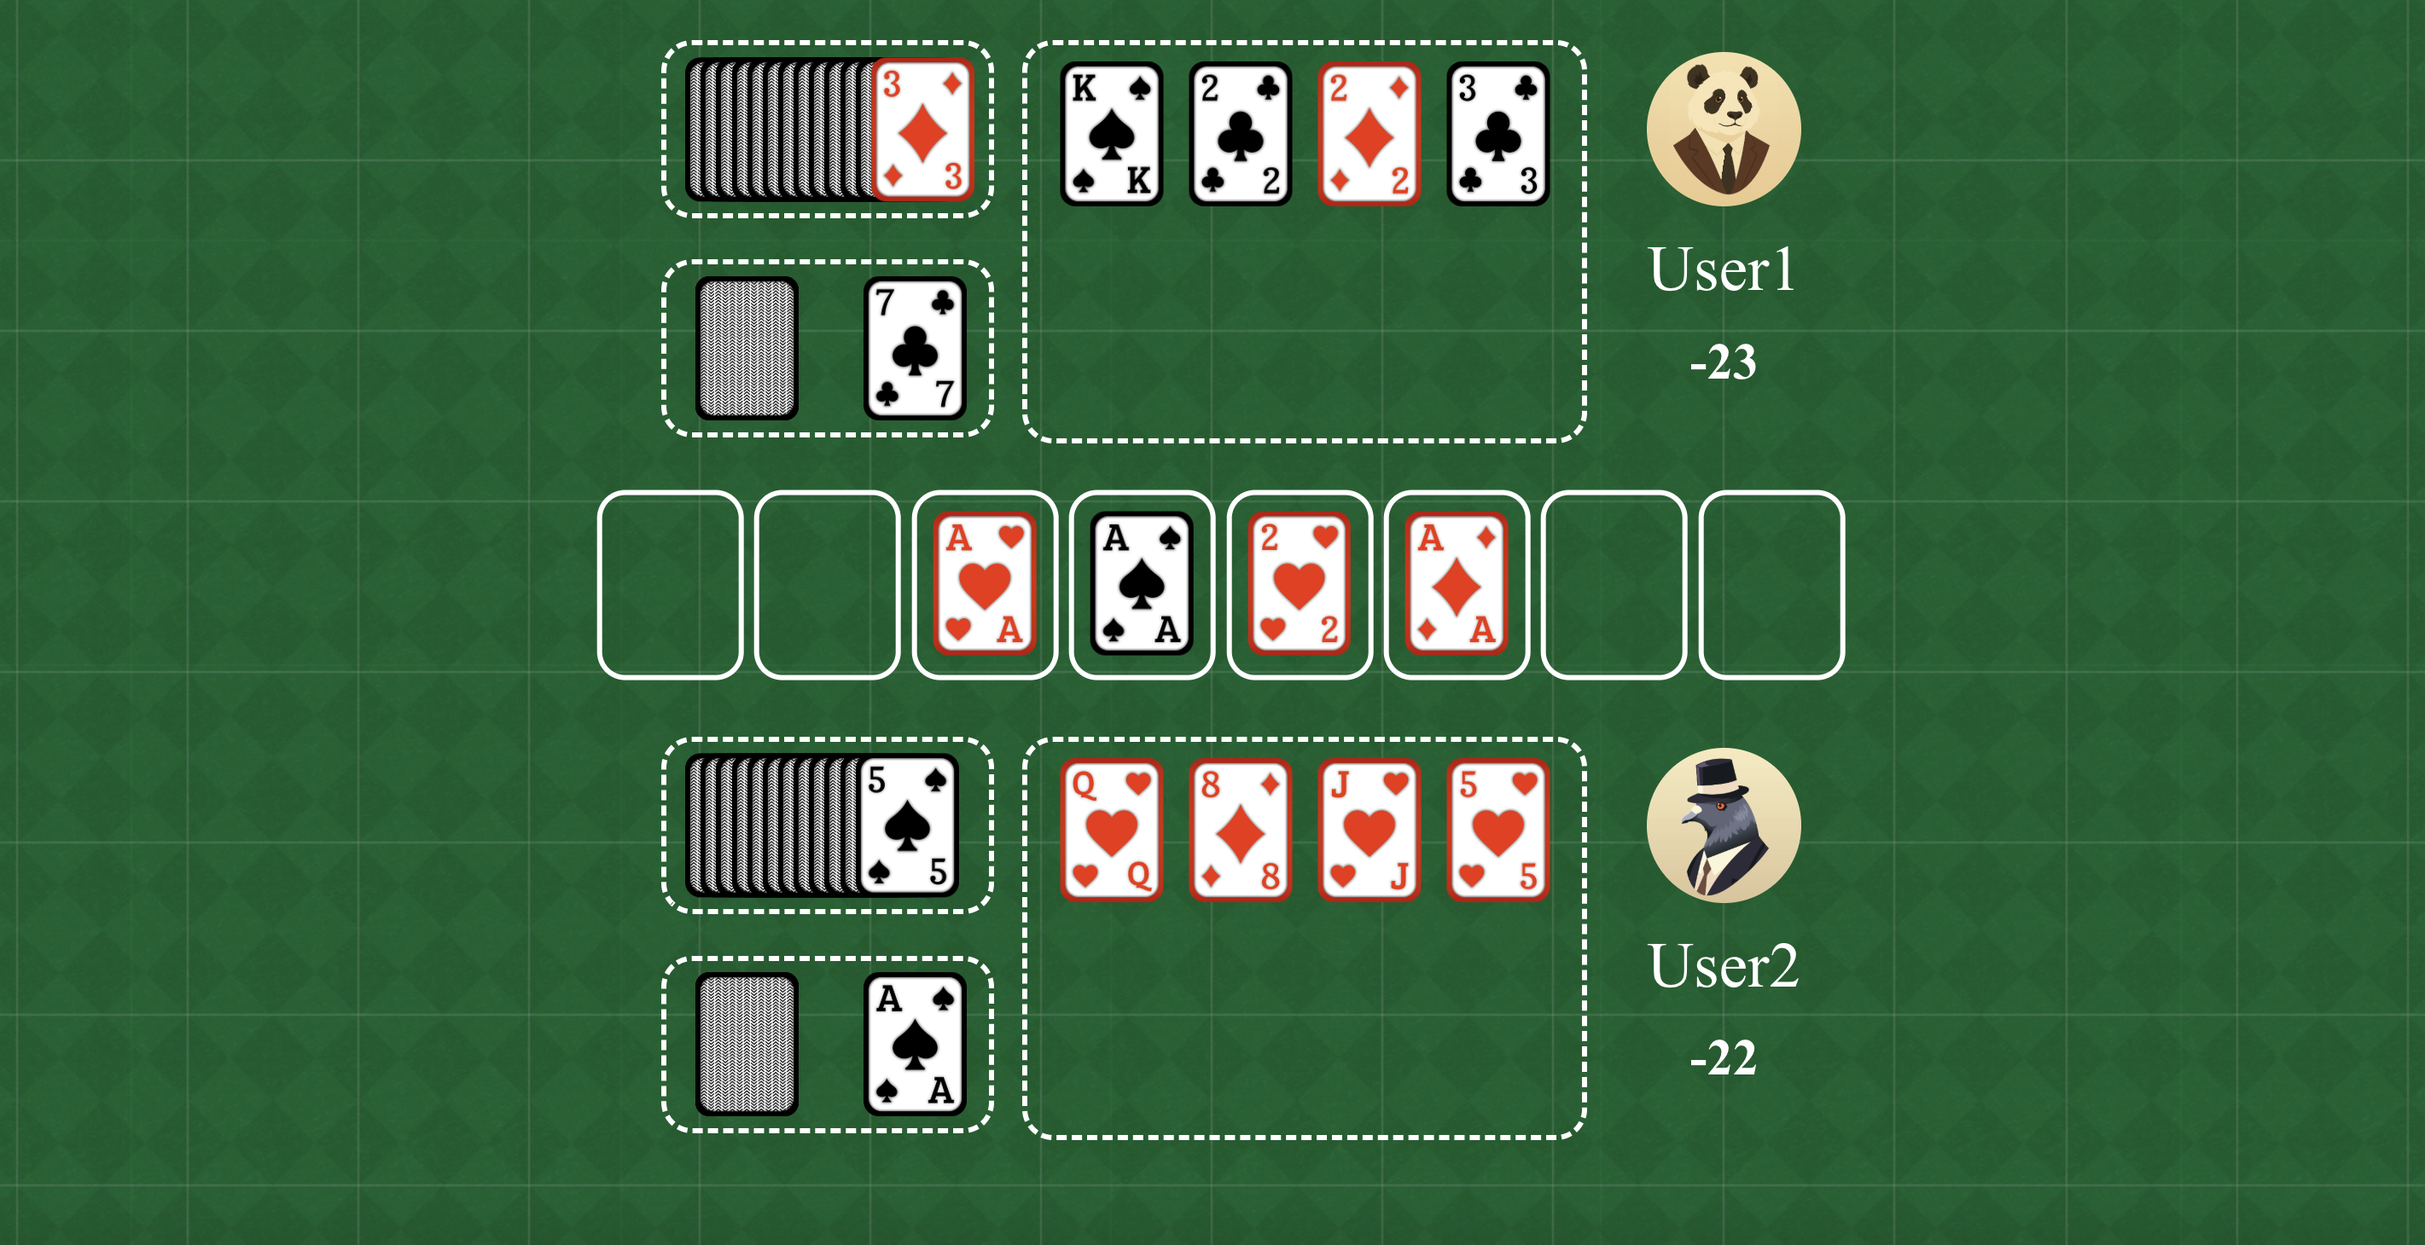
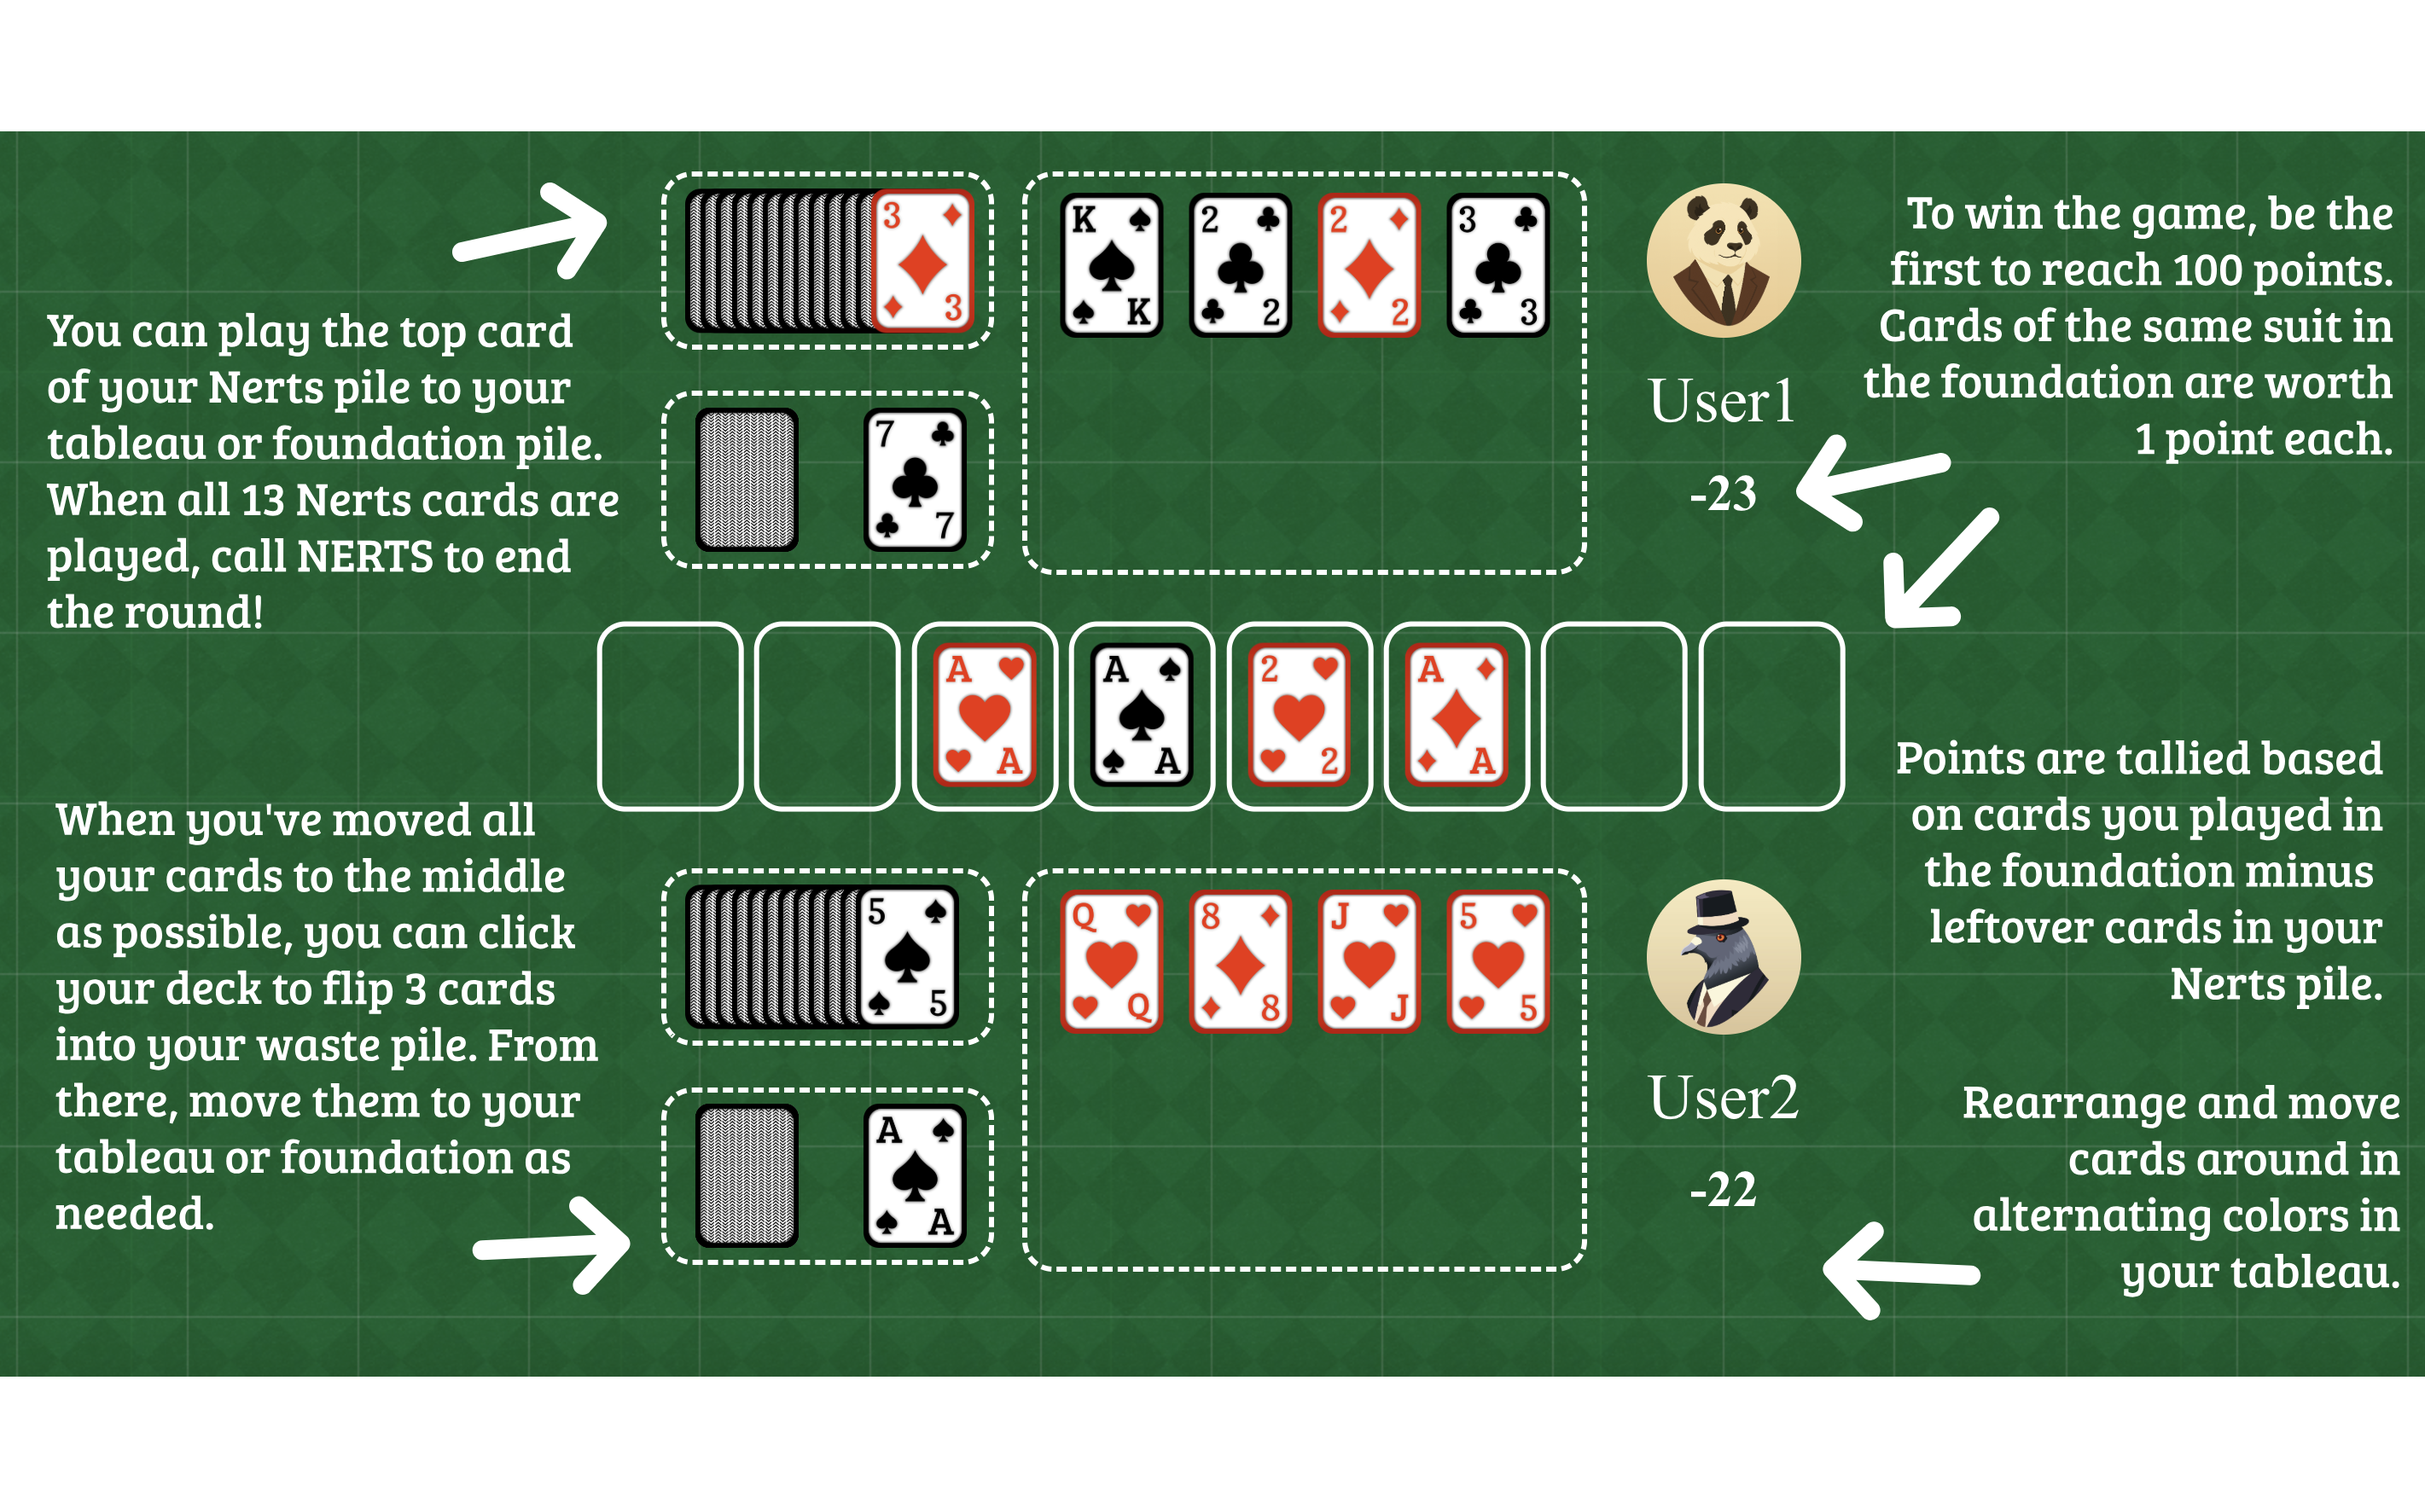
Page code cleanup

diff --git a/client/src/pages/Game.jsx b/client/src/pages/Game.jsx
@@ -1,26 +1,29 @@
-import PlayerArea from "../components/PlayerArea.jsx";
-import CommonArea from "../components/CommonArea.jsx";
 import { useParams } from "react-router-dom";
 import { useSocket } from "../context/SocketContext.jsx";
 import { useEffect, useState } from "react";
-import Popup from "../components/Popup.jsx";
-import CustomButton from "../components/CustomButton.jsx";
-import RoundDisplay from "../components/RoundDisplay.jsx";
-import "./Game.css";
+
 import { db } from "../firebase/config";
 import { doc, updateDoc, increment, getDoc } from "firebase/firestore";
 import { useNavigate } from "react-router-dom";
+
+import Popup from "../components/Popup.jsx";
+import CustomButton from "../components/CustomButton.jsx";
+import RoundDisplay from "../components/RoundDisplay.jsx";
+import PlayerArea from "../components/PlayerArea.jsx";
+import CommonArea from "../components/CommonArea.jsx";
 
 // Sounds
 import soundManager from "../logic/soundManager.js";
 import flips from "../assets/sounds/flip_cards.mp3";
 import flip_one from "../assets/sounds/flip_card.mp3";
 
+import "./Game.css";
+
 function Game() {
   const navigate = useNavigate();
   const { lobbyID } = useParams();
   
-  const { socket, gameState, userID, host } = useSocket(); // Need this for database stuff
+  const { socket, gameState, userID, host } = useSocket();
   const [selectedCard, setSelectedCard] = useState(null);
   const [gameStarted, setGameStarted] = useState(false);
   const [popup, setPopup] = useState(null);
@@ -142,6 +145,11 @@ function Game() {
         // Update the number of cards played in user statistics
         const statsRef = doc(db, "users", userID, "statistics", "data");
         updateDoc(statsRef, { cards_played: increment(1) });
+
+        const warningEl = document.querySelector(".shuffle-warning");
+        if (warningEl) {
+          warningEl.classList.add("hidden");
+        }
 
         playPlay();
       }

diff --git a/client/src/pages/Rules.jsx b/client/src/pages/Rules.jsx
@@ -1,7 +1,7 @@
-import React from "react";
-import CustomButton from "../components/CustomButton";
-import "./Rules.css";
 import Gameboard from "../assets/images/backgrounds/Game-board.png";
+import CustomButton from "../components/CustomButton";
+
+import "./Rules.css";
 
 /* displays the game instructions in two sections with a floating "Back" button*/
 function Rules() {
@@ -9,37 +9,11 @@ function Rules() {
     <div
       className="rules-container"
       style={{
-        backgroundImage: `url(${Gameboard})`,
-        backgroundSize: "cover",
-        minHeight: "100vh",
-        position: "relative",
+        backgroundImage: `url(${Gameboard})`
       }}
     >
       {/* back button. used to navigate to previous page and places button in top left*/}
       <CustomButton back={true} absolute={true} text={"Back"} />
-      {/* top right section of rules */}
-      <div className="rules-top-right">
-        <p>
-          Clicking your deck will flip 3 new cards at a time. Keep moving cards
-          until you run out or your Nerts pile is empty.
-        </p>
-        <p>
-          Points are tallied based on cards you played in the foundation minus
-          leftover cards in your Nerts pile.
-        </p>
-      </div>
-      {/* bottom left section of rules */}
-      <div className="rules-bottom-left">
-        <p>
-          To win the game, be the first to reach 100 points. Cards of the same
-          suit in the foundation are worth 1 point each.
-        </p>
-        <p>
-          When you've moved all your cards to the middle as possible, you can
-          click your deck to flip 3 cards into your waste pile. From there, move
-          them to your tableau or foundation as needed.
-        </p>
-      </div>
     </div>
   );
 }

diff --git a/client/src/pages/Signup.jsx b/client/src/pages/Signup.jsx
@@ -1,14 +1,16 @@
-import React, { useState, useEffect } from "react";
+import { useState, useEffect } from "react";
+import { useSocket } from "../context/SocketContext";
+import { createUserWithEmailAndPassword } from "firebase/auth";
+import { doc, setDoc } from "firebase/firestore";
+import { auth, db } from "../firebase/config";
 import { useNavigate } from "react-router-dom";
+
 import Letters from "../components/Letters";
-import "./Signup.css";
 import CustomTextInput from "../components/CustomTextInput";
 import CustomButton from "../components/CustomButton";
-import { createUserWithEmailAndPassword } from "firebase/auth";
-import { auth, db } from "../firebase/config";
-import { doc, setDoc } from "firebase/firestore";
-import { useSocket } from "../context/SocketContext";
 import Popup from "../components/Popup.jsx";
+
+import "./Signup.css";
 
 function Signup() {
   const navigate = useNavigate();

diff --git a/client/src/pages/Leaderboard.jsx b/client/src/pages/Leaderboard.jsx
@@ -1,11 +1,13 @@
 import { useEffect, useState } from "react";
 import { collection, doc, getDoc, getDocs } from "firebase/firestore";
 import { db, auth } from "../firebase/config";
+import { useSocket } from "../context/SocketContext";
+
 import UserBox from "../components/UserBox";
 import CustomButton from "../components/CustomButton";
 import SoundControl from "../components/SoundControl";
+
 import "./Leaderboard.css";
-import { useSocket } from "../context/SocketContext";
 
 function Leaderboard() {
   const { userID } = useSocket();
@@ -44,7 +46,7 @@ function Leaderboard() {
               gamesWon: stats.wins ?? 0,
               gamesPlayed: stats.games_played ?? 0,
               winLoss:
-                stats.wins / Math.max(stats.gamesPlayed - stats.wins, 1) ?? 0,
+                stats.wins / Math.max(stats.gamesPlayed - stats.wins, 1),
             });
           }
         });

diff --git a/client/src/pages/Landing.jsx b/client/src/pages/Landing.jsx
@@ -1,14 +1,16 @@
 import { useState, useEffect } from "react";
 import { useNavigate } from "react-router-dom";
-import Letters from "../components/Letters";
-import CustomTextInput from "../components/CustomTextInput";
-import CustomButton from "../components/CustomButton";
-import "./Landing.css";
 import { auth, db } from "../firebase/config";
 import { doc, setDoc, getDoc } from "firebase/firestore";
 import { signInWithEmailAndPassword } from "firebase/auth";
 import { useSocket } from "../context/SocketContext";
+
 import Popup from "../components/Popup.jsx";
+import Letters from "../components/Letters";
+import CustomTextInput from "../components/CustomTextInput";
+import CustomButton from "../components/CustomButton";
+
+import "./Landing.css";
 
 function Landing() {
   const navigate = useNavigate();

diff --git a/client/src/pages/Rules.css b/client/src/pages/Rules.css
@@ -1,30 +1,7 @@
 /* main container for the rules page */
 /* in Rules.css */
 .rules-container {
-  min-height: 100vh;
-  background: url("../assets/images/Game-board.png");
-  background-size: cover;
-
-  color: #fff;
-  font-size: 1.5rem;
-  line-height: 1.5;
-  position: relative;
-}
-
-/* top right section of game instructions */
-.rules-top-right {
-  position: absolute;
-  top: 0.5rem;
-  right: 2rem;
-  text-align: right;
-  max-width: 17vw;
-}
-
-/* bottom left section of game instructions */
-.rules-bottom-left {
-  position: absolute;
-  bottom: 0.5rem;
-  left: 2rem;
-  text-align: left;
-  max-width: 17vw;
+    width: 100vw;
+    height: 100vh;
+    background-size: cover;
 }

diff --git a/client/src/pages/User.jsx b/client/src/pages/User.jsx
@@ -1,9 +1,12 @@
 import { useEffect, useState } from "react";
-import CustomButton from "../components/CustomButton";
-import profile from "/icons/pic0.png"; // default image
+import { useSocket } from "../context/SocketContext";
+
 import { doc, getDoc, updateDoc } from "firebase/firestore";
 import { db } from "../firebase/config";
-import { useSocket } from "../context/SocketContext";
+
+import CustomButton from "../components/CustomButton";
+import profile from "/icons/pic0.png"; // default image
+
 import "./User.css";
 
 function User() {

diff --git a/client/src/pages/Signup.css b/client/src/pages/Signup.css
@@ -1,11 +1,9 @@
-/* container for the signup form inputs: stacks fields vertically and centers them */
 .signup-form {
     display: flex;
     flex-direction: column;
     align-items: center;
 }
 
-/* title styling for the form heading */
 .form-title {
     font-size: 2vw;
     color: #fff;
@@ -14,7 +12,6 @@
     text-align: center;
 }
 
-/* row layout for the Back/Next buttons*/
 .button-row {
     display: flex;
     flex-direction: row;

diff --git a/client/src/pages/Host.jsx b/client/src/pages/Host.jsx
@@ -1,6 +1,7 @@
-import React, { useState, useEffect } from "react";
+import { useState, useEffect } from "react";
 import { useNavigate } from "react-router-dom";
 import { useSocket } from "../context/SocketContext.jsx";
+
 import CustomTextInput from "../components/CustomTextInput.jsx";
 import CustomButton from "../components/CustomButton.jsx";
 import Popup from "../components/Popup.jsx";

diff --git a/client/src/pages/Leaderboard.css b/client/src/pages/Leaderboard.css
@@ -70,7 +70,7 @@
     justify-content: space-between;
     align-items: baseline;
     padding: 2px 0;
-    font-family: monospace; /* ensures even spacing for dots */
+    font-family: monospace;
 }
 
 .entry-name {

diff --git a/client/src/pages/Home.jsx b/client/src/pages/Home.jsx
@@ -1,6 +1,7 @@
 import { useNavigate } from "react-router-dom";
 import Letters from "../components/Letters";
 import UserBox from "../components/UserBox";
+
 import "./Home.css";
 
 // Sounds

diff --git a/client/src/pages/Settings.jsx b/client/src/pages/Settings.jsx
@@ -1,6 +1,5 @@
 import CustomButton from "../components/CustomButton";
 import SettingsBox from "../components/SettingsBox";
-import "./Settings.css";
 
 /**
  * settings page component
